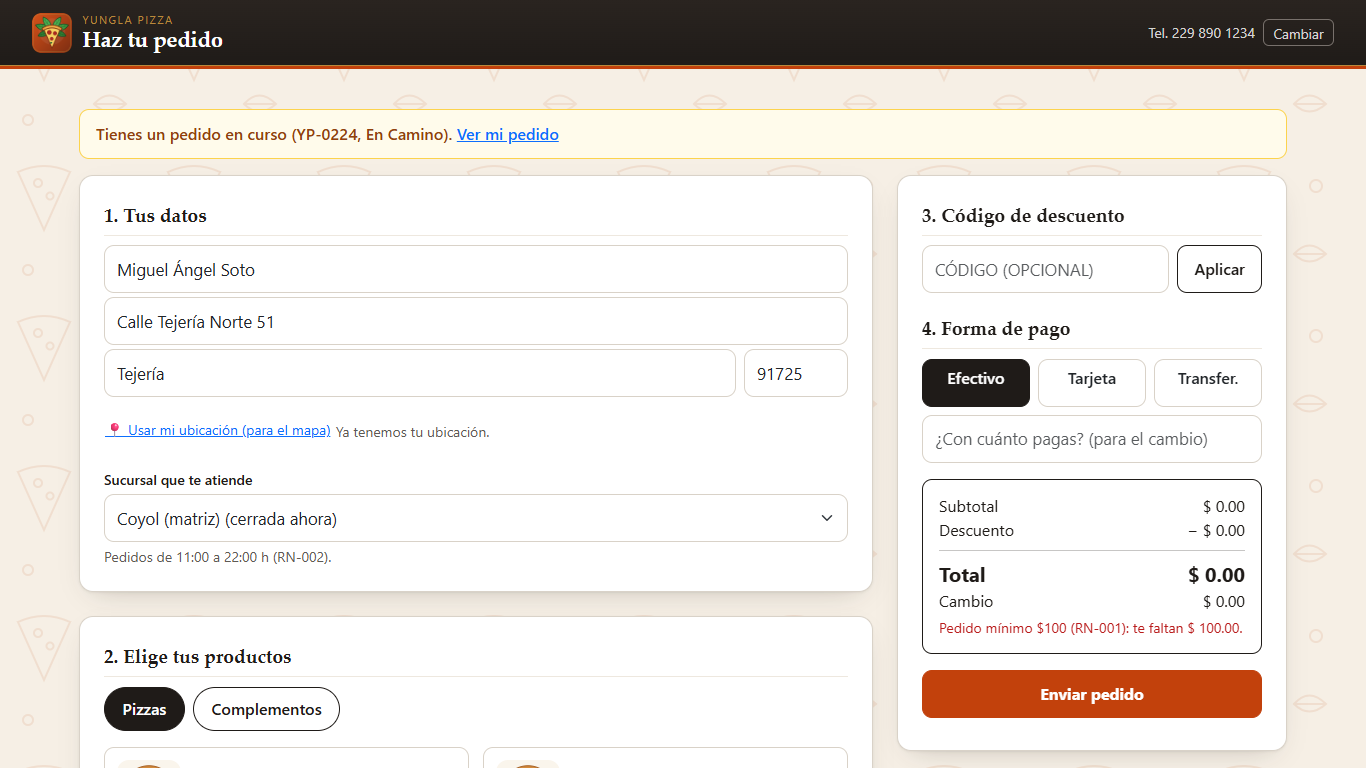
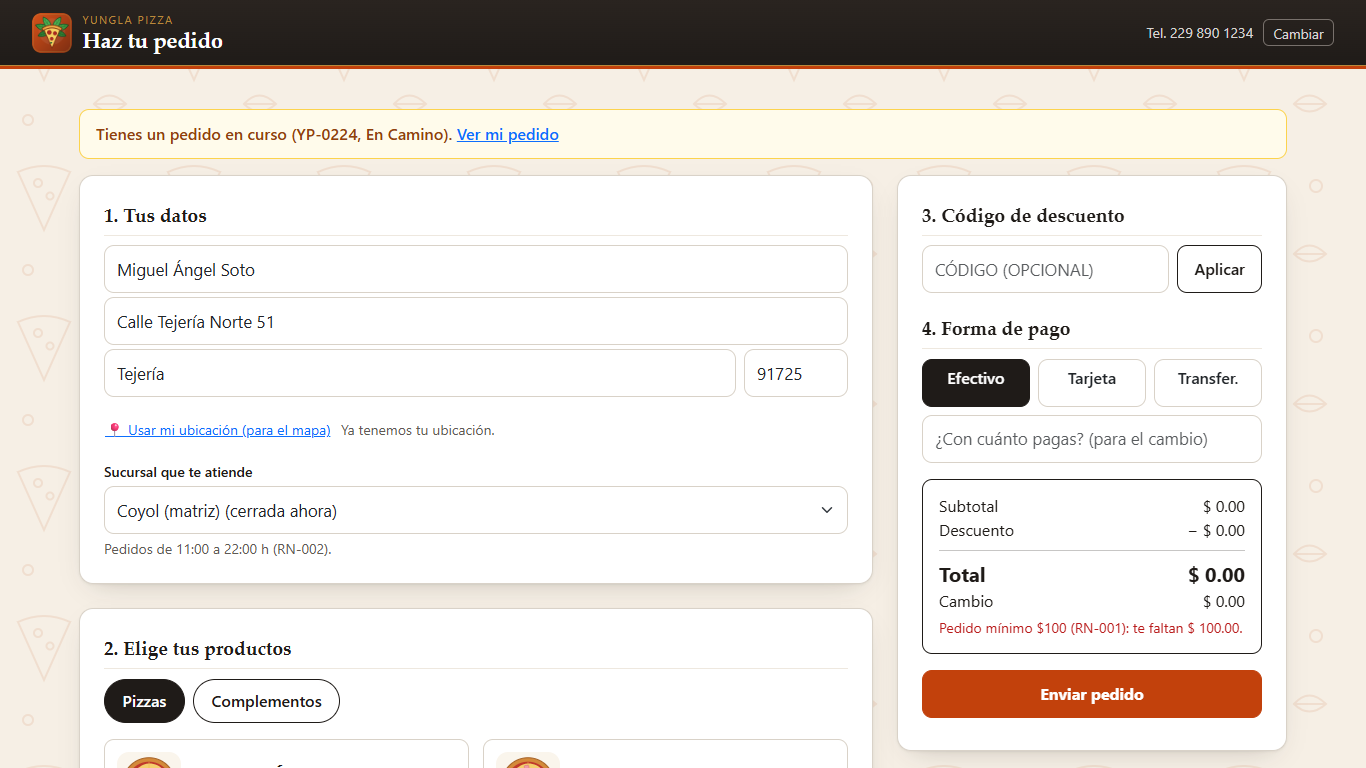
Ajustes para que todo se acomode según el ancho de la pantalla
- Encabezado compacto en celular (el rol se oculta; campana y Salir en una fila)
- Filtros de reportes y auditoría que se encogen (ya no se salen de la pantalla)
- Botón y texto de estado en filas que se acomodan (ubicación, simular recorrido)
- Tamaños de pizza en una fila pareja; "agotado" en letra chica
- Menú del gerente en celular: la sección activa se centra sola
- Tableta: columna más ancha y productos en dos columnas
- PC de 1024 px: el pedido del cajero en una sola columna
- herramientas/revisar_responsivo.py: revisa 30 pantallas en 7 anchos
  (320 a 1366 px); queda en 0 problemas
- Capturas de evidencia actualizadas; caché del service worker gpizza-v5

Pruebas: 172 pasan.

diff --git a/gpizza/static/css/gpizza.css b/gpizza/static/css/gpizza.css
@@ -484,3 +484,99 @@ h2, h3, .gp-paso, .gp-portada-titulo { font-family: var(--gp-letra-titulos); }
     padding-bottom: 0.6rem; border-bottom: 2px solid var(--gp-dorado); display: inline-block;
   }
 }
+
+/* =====================================================================================================
+   Ajustes por tamaño de pantalla (revisado de 320 px a 1366 px)
+   - Celular chico (< 576 px): encabezado compacto y filas que se acomodan en vez de encimarse.
+   - Tableta (768 a 991 px): columna más ancha y productos en dos columnas.
+   - PC angosta (992 a 1199 px): el pedido del cajero vuelve a una columna para no apretar las tarjetas.
+   ===================================================================================================== */
+
+/* Encabezado: el bloque de la marca se puede encoger; la parte derecha nunca se parte en renglones sueltos. */
+.gp-encabezado-marca > div { min-width: 0; }
+.gp-encabezado-empresa { white-space: nowrap; line-height: 1.25; }
+.gp-encabezado h1 { line-height: 1.2; overflow-wrap: anywhere; }
+.gp-encabezado-derecha {
+  display: flex; align-items: center; justify-content: flex-end; flex-wrap: wrap; gap: 0.35rem 0.6rem;
+  flex-shrink: 0; max-width: 55%;
+}
+.gp-encabezado-derecha form { margin: 0 !important; }
+.gp-encabezado-derecha .gp-boton-salir { margin: 0 !important; }
+.gp-campana { margin-right: 0.2rem; }
+
+/* Botón con un texto de estado al lado: si no caben, el texto baja completo a la siguiente línea. */
+.gp-accion-con-estado { display: flex; flex-wrap: wrap; align-items: baseline; gap: 0.15rem 0.6rem; }
+
+/* Tamaños de pizza: siempre en una sola fila pareja (4 botones del mismo ancho). */
+.gp-tamanos { display: grid; grid-template-columns: repeat(auto-fit, minmax(54px, 1fr)); gap: 0.3rem; }
+.gp-tamanos[hidden] { display: none; }
+.gp-tamano { padding: 0.3rem 0.15rem; line-height: 1.15; white-space: nowrap; }
+.gp-tamano small { font-size: 0.68rem; }
+
+/* Pie de la tarjeta de producto: el precio se encoge antes que los botones de cantidad. */
+.gp-producto-pie > div:first-child { min-width: 0; }
+.gp-producto-info { min-width: 0; overflow-wrap: anywhere; }
+
+/* Filtros de reportes y auditoría: columnas que se encogen con la pantalla (antes se salían a la derecha). */
+.gp-filtros { grid-template-columns: repeat(2, minmax(0, 1fr)); }
+.gp-filtros > * { min-width: 0; }
+.gp-filtros .form-control, .gp-filtros .form-select { width: 100%; min-width: 0; }
+
+/* Tarjetas de indicadores y textos largos (montos, nombres): que bajen de línea en vez de salirse. */
+.gp-indicadores > * { min-width: 0; overflow-wrap: anywhere; }
+
+@media (max-width: 575.98px) {
+  .gp-encabezado { padding: 0.55rem 0.85rem; gap: 0.6rem; }
+  .gp-encabezado-logo { width: 30px; height: 30px; }
+  .gp-encabezado h1 { font-size: 1.05rem; }
+  .gp-encabezado-empresa { font-size: 0.62rem; }
+  .gp-encabezado small { font-size: 0.8rem; }
+  .gp-rol-encabezado { display: none; }          /* el rol ya se ve en el menú y en cada pantalla */
+  .gp-contenido { padding-left: 0.85rem; padding-right: 0.85rem; }
+
+  /* Barra inferior del personal: textos que caben en 320 px. */
+  .gp-navegacion > a { font-size: 0.8rem; padding: 0 0.15rem; text-align: center; line-height: 1.15; }
+
+  /* Panel del gerente en el celular: usuario y "Cerrar sesión" en una sola fila; el menú avisa que se desliza. */
+  .gp-menu-lateral { padding: 0.75rem 0.85rem; }
+  .gp-menu-titulo { margin-bottom: 0.5rem; }
+  .gp-menu-lateral nav { mask-image: linear-gradient(90deg, #000 85%, transparent); -webkit-mask-image: linear-gradient(90deg, #000 85%, transparent); scrollbar-width: none; }
+  .gp-menu-usuario { display: flex; align-items: center; justify-content: space-between; gap: 0.5rem; flex-wrap: wrap; margin-top: 0.5rem; }
+  .gp-menu-usuario form { margin: 0 !important; }
+  .gp-panel-principal { padding: 1rem 0.85rem 2rem; }
+  .gp-pestanas-estado { scrollbar-width: none; }
+
+  /* Botones de opción (pago, tiempo): un poco más compactos para que quepan tres. */
+  .gp-segmentado { gap: 0.35rem; }
+  .gp-segmentado .btn { padding-left: 0.25rem; padding-right: 0.25rem; font-size: 0.95rem; }
+}
+
+@media (max-width: 359.98px) {
+  .gp-filtros { grid-template-columns: minmax(0, 1fr); }
+  .gp-indicadores { grid-template-columns: minmax(0, 1fr); }
+}
+
+/* Tableta: aprovecha el ancho sin pasar todavía a la distribución de PC. */
+@media (min-width: 768px) and (max-width: 991.98px) {
+  .gp-contenido { max-width: 720px; }
+  .gp-contenido-portada, .gp-contenido-medio { max-width: 600px; }
+  .gp-lista-productos:not([hidden]) { display: grid; grid-template-columns: repeat(2, minmax(0, 1fr)); gap: 0.75rem; margin-bottom: 0.75rem; }
+  .gp-lista-productos .gp-producto { margin-bottom: 0; align-content: start; }
+  .gp-panel-principal { padding: 1.5rem 2rem 2rem; }
+}
+
+@media (min-width: 992px) {
+  /* Los productos se acomodan según el espacio de la columna: dos si caben, una si no. */
+  .gp-lista-productos:not([hidden]) { grid-template-columns: repeat(auto-fill, minmax(250px, 1fr)); }
+}
+
+/* PC angosta con menú lateral (cajero): el pedido en una sola columna para no apretar las tarjetas. */
+@media (min-width: 992px) and (max-width: 1199.98px) {
+  .gp-con-navegacion .gp-pedido-rejilla { display: block; }
+  .gp-con-navegacion .gp-pedido-pegajoso { position: static; }
+  body.gp-con-navegacion { grid-template-columns: 210px minmax(0, 1fr); }
+  .gp-con-navegacion .gp-contenido { padding: 1.5rem 1.5rem; }
+  .gp-pedido-rejilla { grid-template-columns: minmax(0, 1fr) 340px; }
+  .gp-menu-lateral { width: 220px; }
+  .gp-panel-principal { padding: 2rem 2rem; }
+}

diff --git a/gpizza/templates/repartidor/inicio.html b/gpizza/templates/repartidor/inicio.html
@@ -56,8 +56,10 @@
         {% endif %}
       </div>
       <p class="small mt-2 mb-1 {{ 'gp-texto-alerta fw-semibold' if minutos > 90 }}">Tiempo en camino: {{ minutos }} min · alerta a los 90 (RN-014)</p>
-      <button type="button" class="btn btn-link btn-sm p-0" data-simular>Simular recorrido (demo sin GPS)</button>
-      <span class="small gp-texto-suave ms-1" data-estado-gps></span>
+      <div class="gp-accion-con-estado">
+        <button type="button" class="btn btn-link btn-sm p-0" data-simular>Simular recorrido (demo sin GPS)</button>
+        <span class="small gp-texto-suave" data-estado-gps></span>
+      </div>
 
       {# ---------- RN-013: entrega en dos pasos ---------- #}
       <div class="gp-confirmar-entrega mt-3">
@@ -71,7 +73,7 @@
             <button type="button" class="btn btn-link btn-sm p-0" data-borrar-firma>Borrar firma</button>
             <div class="text-center small gp-texto-suave my-1">— o —</div>
             <input class="form-control mb-2" name="codigo" inputmode="numeric" maxlength="4" pattern="[0-9]{4}"
-                   placeholder="Código de confirmación del cliente" aria-label="Código de confirmación del cliente">
+                   placeholder="Código del cliente (4 dígitos)" aria-label="Código de confirmación del cliente">
             <button class="btn btn-gp-oscuro w-100">Registrar confirmación del cliente</button>
           </form>
           <button class="btn btn-gp-principal w-100 mt-2" disabled>Marcar como entregado</button>

diff --git a/gpizza/templates/cliente/pedido.html b/gpizza/templates/cliente/pedido.html
@@ -46,8 +46,10 @@
   {# Opcional: con la ubicación del navegador, el domicilio aparece en el mapa del repartidor y en el tuyo. #}
   <input type="hidden" name="latitud" value="{{ valores.get('latitud', '') }}">
   <input type="hidden" name="longitud" value="{{ valores.get('longitud', '') }}">
-  <button type="button" class="btn btn-link btn-sm p-0 mb-2" id="usar-ubicacion">📍 Usar mi ubicación (para el mapa)</button>
-  <span class="small gp-texto-suave" id="estado-ubicacion">{% if cliente and cliente.latitud %}Ya tenemos tu ubicación.{% endif %}</span>
+  <div class="gp-accion-con-estado mb-2">
+    <button type="button" class="btn btn-link btn-sm p-0" id="usar-ubicacion">📍 Usar mi ubicación (para el mapa)</button>
+    <span class="small gp-texto-suave" id="estado-ubicacion">{% if cliente and cliente.latitud %}Ya tenemos tu ubicación.{% endif %}</span>
+  </div>
   <label for="id_sucursal" class="form-label d-block small fw-semibold mt-2 mb-1">Sucursal que te atiende</label>
   <select id="id_sucursal" name="id_sucursal" class="form-select mb-1">
     {% for s in sucursales %}

diff --git a/gpizza/static/js/gpizza.js b/gpizza/static/js/gpizza.js
@@ -8,6 +8,14 @@ if ('serviceWorker' in navigator) {
   });
 }
 
+// Menús que se deslizan a lo ancho en el celular: lleva la opción activa a la vista.
+document.addEventListener('DOMContentLoaded', () => {
+  document.querySelectorAll('.gp-menu-lateral nav a.activa, .gp-pestanas-estado .activa').forEach((activa) => {
+    const fila = activa.parentElement;
+    if (fila.scrollWidth > fila.clientWidth) fila.scrollLeft = activa.offsetLeft - (fila.clientWidth - activa.offsetWidth) / 2;
+  });
+});
+
 // Protección CSRF (RNF-003): HTMX envía el token en una cabecera en cada petición que modifica datos.
 document.addEventListener('htmx:configRequest', (evento) => {
   const token = document.querySelector('meta[name="csrf-token"]');

diff --git a/gpizza/templates/parciales/_menu.html b/gpizza/templates/parciales/_menu.html
@@ -29,7 +29,7 @@
         {% for o in t.opciones %}
           <button type="button" class="gp-tamano" data-id="{{ o.id_producto }}" data-precio="{{ o.precio }}" data-qr="{{ o.codigo or '' }}"
                   data-nombre="{{ t.nombre }}{{ ' ' ~ o.tamano if o.tamano }}"
-                  {% if not o.disponible %}disabled title="Agotado"{% endif %}>{{ o.tamano or 'Único' }}{% if not o.disponible %} (agotado){% endif %}</button>
+                  {% if not o.disponible %}disabled title="Agotado"{% endif %}>{{ o.tamano or 'Único' }}{% if not o.disponible %}<small class="d-block">agotado</small>{% endif %}</button>
         {% endfor %}
       </div>
       <div class="gp-producto-pie">

diff --git a/gpizza/templates/personal/base.html b/gpizza/templates/personal/base.html
@@ -4,8 +4,8 @@
 {% block clase_body %}gp-con-navegacion{% endblock %}
 {% block encabezado_derecha %}
   {% include 'parciales/_campana.html' %}
-  {{ usuario.rol }}
-  <form method="post" action="{{ url_for('auth.salir') }}" class="d-inline ms-2">
+  <span class="gp-rol-encabezado">{{ usuario.rol }}</span>
+  <form method="post" action="{{ url_for('auth.salir') }}" class="d-inline">
     <input type="hidden" name="csrf_token" value="{{ csrf_token() }}">
     <button class="gp-boton-salir" title="Cerrar sesión">Salir</button>
   </form>

diff --git a/gpizza/static/sw.js b/gpizza/static/sw.js
@@ -4,7 +4,7 @@
 // - Las páginas sin red muestran /offline. Nunca se guardan datos de pedidos ni respuestas de la API.
 // Al cambiar esta estrategia o la lista de archivos, sube el número de CACHE para borrar la anterior.
 
-const CACHE = 'gpizza-v4';
+const CACHE = 'gpizza-v5';
 const ARCHIVOS_FIJOS = [
   '/offline',
   '/static/css/gpizza.css',

diff --git a/herramientas/revisar_responsivo.py b/herramientas/revisar_responsivo.py
@@ -1,0 +1,135 @@
+"""Revisa todas las pantallas en varios anchos y reporta: elementos fuera de la pantalla, textos o botones
+encimados, textos cortados y contenido tapado por la barra inferior. Toma captura de las que tienen problemas.
+Uso (con la app corriendo sobre la base de pruebas gpizza_test):
+    python herramientas/revisar_responsivo.py http://127.0.0.1:5000 revision [320,360,390,412,768,1024,1366]
+Requiere playwright (pip install playwright) y Chrome instalado. Debe terminar en "0 pantallas con problemas"."""
+import json
+import sys
+from pathlib import Path
+
+from playwright.sync_api import sync_playwright
+
+BASE, SALIDA = sys.argv[1], Path(sys.argv[2])
+ANCHOS = [int(a) for a in (sys.argv[3] if len(sys.argv) > 3 else '320,360,390,412,768,1024,1366').split(',')]
+SALIDA.mkdir(parents=True, exist_ok=True)
+
+GRUPOS = {
+    None: ['/', '/login', '/no-existe'],
+    'cliente': ['/pedido', '/mi-pedido/YP-0224'],
+    'cajero1.coyol': ['/cajero/', '/cajero/pedidos', '/cajero/pedidos?estado=En%20Camino', '/cajero/nuevo',
+                      '/cajero/nuevo?telefono=2297654321', '/cajero/clientes', '/cajero/clientes/nuevo',
+                      '/seguimiento/?q=YP-0224', '/seguimiento/YP-0224', '/notificaciones/', '/cambiar-contrasena'],
+    'repartidor1.coyol': ['/repartidor/', '/repartidor/historial'],
+    'gerente.coyol': ['/gerente/', '/gerente/pedidos', '/gerente/catalogo', '/gerente/clientes', '/gerente/clientes/1',
+                      '/gerente/personal', '/gerente/descuentos', '/gerente/reportes', '/gerente/auditoria',
+                      '/gerente/catalogo/etiquetas', '/seguimiento/YP-0224'],
+}
+
+REVISAR = r"""() => {
+  const vw = document.documentElement.clientWidth, vh = innerHeight, res = [];
+  const desc = (el) => {
+    const c = (el.className && typeof el.className === 'string') ? '.' + el.className.trim().split(/\s+/).slice(0, 3).join('.') : '';
+    const t = (el.innerText || el.value || el.alt || '').trim().replace(/\s+/g, ' ').slice(0, 40);
+    return `${el.tagName.toLowerCase()}${el.id ? '#' + el.id : ''}${c} "${t}"`;
+  };
+  const visible = (el) => {
+    const s = getComputedStyle(el), r = el.getBoundingClientRect();
+    return r.width > 0 && r.height > 0 && s.visibility !== 'hidden' && s.display !== 'none' && s.opacity !== '0';
+  };
+  // Zonas que se desplazan a lo ancho a propósito, o dibujos internos de librerías.
+  const ignorar = (el) => el.closest('.visually-hidden, .leaflet-container, .gp-pestanas-estado, .gp-menu-lateral nav, .table-responsive, canvas, svg, option, datalist, script, style, head, [hidden], details:not([open]) > :not(summary)');
+  const todos = [...document.body.querySelectorAll('*')].filter((el) => !ignorar(el) && visible(el));
+
+  // 1. Fuera de la pantalla a lo ancho
+  for (const el of todos) {
+    const r = el.getBoundingClientRect();
+    if (r.right > vw + 1 || r.left < -1) res.push({tipo: 'fuera', el: desc(el), detalle: `${Math.round(r.left)}..${Math.round(r.right)} de ${vw}`});
+  }
+  // 2. Texto cortado: el contenido es más ancho que la caja y no se puede desplazar
+  for (const el of todos) {
+    const s = getComputedStyle(el);
+    if (['auto', 'scroll'].includes(s.overflowX) || el.tagName === 'SELECT' || el.tagName === 'INPUT' || el.tagName === 'TEXTAREA') continue;
+    if (el.scrollWidth > el.clientWidth + 2 && el.clientWidth > 0 && [...el.childNodes].some((n) => n.nodeType === 3 && n.textContent.trim()))
+      res.push({tipo: 'cortado', el: desc(el), detalle: `${el.scrollWidth} > ${el.clientWidth}`});
+  }
+  // 3. Encimados: hojas (texto propio, botones, campos, imágenes) cuyas cajas se cruzan
+  const hojas = todos.filter((el) => ['BUTTON', 'INPUT', 'SELECT', 'TEXTAREA', 'IMG', 'A', 'LABEL'].includes(el.tagName) ||
+      [...el.childNodes].some((n) => n.nodeType === 3 && n.textContent.trim()))
+    .filter((el) => !el.closest('.gp-insignia, .gp-navegacion') && !el.matches('.btn-check, .visually-hidden') && getComputedStyle(el).position !== 'fixed');
+  const cajas = hojas.map((el) => {
+    // Para texto se mide el texto real (no la caja del bloque, que puede ser más ancha que las letras).
+    let r = el.getBoundingClientRect();
+    if (!['BUTTON', 'INPUT', 'SELECT', 'TEXTAREA', 'IMG'].includes(el.tagName)) {
+      const rango = document.createRange(); rango.selectNodeContents(el); const rr = rango.getBoundingClientRect();
+      if (rr.width && rr.height) r = rr;
+    }
+    return [el, r];
+  });
+  for (let i = 0; i < cajas.length; i++) for (let j = i + 1; j < cajas.length; j++) {
+    const [a, ra] = cajas[i], [b, rb] = cajas[j];
+    if (a.contains(b) || b.contains(a)) continue;
+    const w = Math.min(ra.right, rb.right) - Math.max(ra.left, rb.left), h = Math.min(ra.bottom, rb.bottom) - Math.max(ra.top, rb.top);
+    if (w > 3 && h > 3) res.push({tipo: 'encimado', el: desc(a), detalle: 'con ' + desc(b) + ` (${Math.round(w)}x${Math.round(h)})`});
+  }
+  // 4. Barra inferior fija: al final de la página, ¿tapa el último contenido?
+  const barra = document.querySelector('.gp-navegacion');
+  if (barra && getComputedStyle(barra).position === 'fixed') {
+    window.scrollTo({top: document.documentElement.scrollHeight, behavior: 'instant'});
+    const tope = barra.getBoundingClientRect().top;
+    const ultimo = [...document.querySelectorAll('.gp-contenido *')].filter(visible).pop();
+    if (ultimo && ultimo.getBoundingClientRect().bottom > tope + 1) res.push({tipo: 'tapado', el: desc(ultimo), detalle: 'por la barra inferior'});
+    window.scrollTo({top: 0, behavior: 'instant'});
+  }
+  if (document.documentElement.scrollWidth > vw + 1) res.push({tipo: 'scroll-horizontal', el: 'página', detalle: `${document.documentElement.scrollWidth} > ${vw}`});
+  return res;
+}"""
+
+
+def entrar(pagina, rol):
+    if rol == 'cliente':
+        pagina.goto(BASE + '/')
+        pagina.fill('#telefono', '2298901234')
+        pagina.click('button[type=submit]')
+    elif rol:
+        pagina.goto(BASE + '/login')
+        pagina.fill('#usuario', rol)
+        pagina.fill('#contrasena', 'Pizza2026')
+        pagina.click('button:has-text("Iniciar sesión")')
+    pagina.wait_for_load_state('load')
+
+
+reporte = {}
+with sync_playwright() as p:
+    nav = p.chromium.launch(channel='chrome')
+    for ancho in ANCHOS:
+        movil = ancho < 768
+        for rol, rutas in GRUPOS.items():
+            ctx = nav.new_context(viewport={'width': ancho, 'height': 800 if movil else 900}, is_mobile=movil, has_touch=movil,
+                                  device_scale_factor=1)
+            # Sin mosaicos del mapa: no cambian el acomodo y así la revisión no depende de internet.
+            ctx.route('**/tile.openstreetmap.org/**', lambda r: r.abort())
+            pg = ctx.new_page()
+            entrar(pg, rol)
+            for ruta in rutas:
+                pg.goto(BASE + ruta, wait_until='load')
+                pg.wait_for_timeout(500)
+                problemas = pg.evaluate(REVISAR)
+                clave = f'{ancho} {rol or "publico"} {ruta}'
+                if problemas:
+                    reporte[clave] = problemas
+                    nombre = f'{ancho}_{(rol or "publico").split(".")[0]}_{ruta.strip("/").replace("/", "_").replace("?", "_") or "inicio"}'[:90]
+                    pg.screenshot(path=str(SALIDA / f'{nombre}.png'), full_page=True)
+            ctx.close()
+    nav.close()
+
+(SALIDA / 'reporte.json').write_text(json.dumps(reporte, ensure_ascii=False, indent=1), encoding='utf-8')
+total = sum(len(v) for v in reporte.values())
+print(f'{len(reporte)} pantallas con problemas, {total} problemas')
+for clave, problemas in reporte.items():
+    print('\n#', clave)
+    vistos = set()
+    for pr in problemas:
+        linea = f"  {pr['tipo']:9} {pr['el']} {pr['detalle']}"
+        if linea not in vistos:
+            vistos.add(linea)
+            print(linea[:230])

diff --git a/docs/evidencias/README.md b/docs/evidencias/README.md
@@ -10,31 +10,31 @@ Firefox no está instalado en la computadora de desarrollo; se revisa a mano (ve
 
 | Pantalla | Navegador | Ancho | OK | Desborde | Botones < 44 px | Carga | Errores JS | Captura |
 |---|---|---|---|---|---|---|---|---|
-| Cliente · inicio con teléfono (boceto 1) | Chrome | 375 px | ✔ | 0 px | 0 | 0.74 s | — | [chrome_375_01_cliente_inicio.png](chrome_375_01_cliente_inicio.png) |
-| Cliente · haz tu pedido (boceto 2) | Chrome | 375 px | ✔ | 0 px | 0 | 0.77 s | — | [chrome_375_02_cliente_pedido.png](chrome_375_02_cliente_pedido.png) |
-| Cliente · pedido en camino con mapa (boceto 5) | Chrome | 375 px | ✔ | 0 px | 0 | 1.11 s | — | [chrome_375_03_cliente_en_camino.png](chrome_375_03_cliente_en_camino.png) |
-| Personal · inicio de sesión (boceto 6) | Chrome | 375 px | ✔ | 0 px | 0 | 0.70 s | — | [chrome_375_04_login.png](chrome_375_04_login.png) |
-| Cajero · por confirmar (boceto 7) | Chrome | 375 px | ✔ | 0 px | 0 | 0.69 s | — | [chrome_375_05_cajero_por_confirmar.png](chrome_375_05_cajero_por_confirmar.png) |
-| Cajero · pedidos por estado (boceto 8) | Chrome | 375 px | ✔ | 0 px | 0 | 0.93 s | — | [chrome_375_06_cajero_pedidos.png](chrome_375_06_cajero_pedidos.png) |
-| Repartidor · mis entregas (boceto 9) | Chrome | 375 px | ✔ | 0 px | 0 | 0.69 s | — | [chrome_375_07_repartidor.png](chrome_375_07_repartidor.png) |
-| Gerente · reportes (boceto 10) | Chrome | 375 px | ✔ | 0 px | 0 | 0.78 s | — | [chrome_375_08_gerente_reportes.png](chrome_375_08_gerente_reportes.png) |
-| Gerente · catálogo y precios | Chrome | 375 px | ✔ | 0 px | 0 | 0.77 s | — | [chrome_375_09_gerente_catalogo.png](chrome_375_09_gerente_catalogo.png) |
-| Gerente · auditoría | Chrome | 375 px | ✔ | 0 px | 0 | 0.72 s | — | [chrome_375_10_gerente_auditoria.png](chrome_375_10_gerente_auditoria.png) |
-| Cliente · inicio con teléfono (boceto 1) | Chrome | 1366 px | ✔ | 0 px | 0 | 0.74 s | — | [chrome_1366_01_cliente_inicio.png](chrome_1366_01_cliente_inicio.png) |
-| Cliente · haz tu pedido (boceto 2) | Chrome | 1366 px | ✔ | 0 px | 0 | 0.73 s | — | [chrome_1366_02_cliente_pedido.png](chrome_1366_02_cliente_pedido.png) |
-| Cliente · pedido en camino con mapa (boceto 5) | Chrome | 1366 px | ✔ | 0 px | 0 | 1.07 s | — | [chrome_1366_03_cliente_en_camino.png](chrome_1366_03_cliente_en_camino.png) |
-| Personal · inicio de sesión (boceto 6) | Chrome | 1366 px | ✔ | 0 px | 0 | 0.70 s | — | [chrome_1366_04_login.png](chrome_1366_04_login.png) |
-| Cajero · por confirmar (boceto 7) | Chrome | 1366 px | ✔ | 0 px | 0 | 0.69 s | — | [chrome_1366_05_cajero_por_confirmar.png](chrome_1366_05_cajero_por_confirmar.png) |
-| Cajero · pedidos por estado (boceto 8) | Chrome | 1366 px | ✔ | 0 px | 0 | 0.68 s | — | [chrome_1366_06_cajero_pedidos.png](chrome_1366_06_cajero_pedidos.png) |
-| Repartidor · mis entregas (boceto 9) | Chrome | 1366 px | ✔ | 0 px | 0 | 0.76 s | — | [chrome_1366_07_repartidor.png](chrome_1366_07_repartidor.png) |
-| Gerente · reportes (boceto 10) | Chrome | 1366 px | ✔ | 0 px | 0 | 0.81 s | — | [chrome_1366_08_gerente_reportes.png](chrome_1366_08_gerente_reportes.png) |
-| Gerente · catálogo y precios | Chrome | 1366 px | ✔ | 0 px | 0 | 0.84 s | — | [chrome_1366_09_gerente_catalogo.png](chrome_1366_09_gerente_catalogo.png) |
-| Gerente · auditoría | Chrome | 1366 px | ✔ | 0 px | 0 | 0.70 s | — | [chrome_1366_10_gerente_auditoria.png](chrome_1366_10_gerente_auditoria.png) |
-| Cliente · haz tu pedido (boceto 2) | Edge | 375 px | ✔ | 0 px | 0 | 1.13 s | — | [edge_375_02_cliente_pedido.png](edge_375_02_cliente_pedido.png) |
-| Cajero · por confirmar (boceto 7) | Edge | 375 px | ✔ | 0 px | 0 | 0.69 s | — | [edge_375_05_cajero_por_confirmar.png](edge_375_05_cajero_por_confirmar.png) |
-| Repartidor · mis entregas (boceto 9) | Edge | 375 px | ✔ | 0 px | 0 | 0.73 s | — | [edge_375_07_repartidor.png](edge_375_07_repartidor.png) |
-| Gerente · reportes (boceto 10) | Edge | 375 px | ✔ | 0 px | 0 | 0.79 s | — | [edge_375_08_gerente_reportes.png](edge_375_08_gerente_reportes.png) |
-| Cliente · haz tu pedido (boceto 2) | Edge | 1366 px | ✔ | 0 px | 0 | 0.81 s | — | [edge_1366_02_cliente_pedido.png](edge_1366_02_cliente_pedido.png) |
-| Cajero · por confirmar (boceto 7) | Edge | 1366 px | ✔ | 0 px | 0 | 0.70 s | — | [edge_1366_05_cajero_por_confirmar.png](edge_1366_05_cajero_por_confirmar.png) |
-| Repartidor · mis entregas (boceto 9) | Edge | 1366 px | ✔ | 0 px | 0 | 0.76 s | — | [edge_1366_07_repartidor.png](edge_1366_07_repartidor.png) |
-| Gerente · reportes (boceto 10) | Edge | 1366 px | ✔ | 0 px | 0 | 0.72 s | — | [edge_1366_08_gerente_reportes.png](edge_1366_08_gerente_reportes.png) |
+| Cliente · inicio con teléfono (boceto 1) | Chrome | 375 px | ✔ | 0 px | 0 | 0.70 s | — | [chrome_375_01_cliente_inicio.png](chrome_375_01_cliente_inicio.png) |
+| Cliente · haz tu pedido (boceto 2) | Chrome | 375 px | ✔ | 0 px | 0 | 0.73 s | — | [chrome_375_02_cliente_pedido.png](chrome_375_02_cliente_pedido.png) |
+| Cliente · pedido en camino con mapa (boceto 5) | Chrome | 375 px | ✔ | 0 px | 0 | 1.02 s | — | [chrome_375_03_cliente_en_camino.png](chrome_375_03_cliente_en_camino.png) |
+| Personal · inicio de sesión (boceto 6) | Chrome | 375 px | ✔ | 0 px | 0 | 0.75 s | — | [chrome_375_04_login.png](chrome_375_04_login.png) |
+| Cajero · por confirmar (boceto 7) | Chrome | 375 px | ✔ | 0 px | 0 | 0.64 s | — | [chrome_375_05_cajero_por_confirmar.png](chrome_375_05_cajero_por_confirmar.png) |
+| Cajero · pedidos por estado (boceto 8) | Chrome | 375 px | ✔ | 0 px | 0 | 0.65 s | — | [chrome_375_06_cajero_pedidos.png](chrome_375_06_cajero_pedidos.png) |
+| Repartidor · mis entregas (boceto 9) | Chrome | 375 px | ✔ | 0 px | 0 | 0.73 s | — | [chrome_375_07_repartidor.png](chrome_375_07_repartidor.png) |
+| Gerente · reportes (boceto 10) | Chrome | 375 px | ✔ | 0 px | 0 | 1.31 s | — | [chrome_375_08_gerente_reportes.png](chrome_375_08_gerente_reportes.png) |
+| Gerente · catálogo y precios | Chrome | 375 px | ✔ | 0 px | 0 | 1.02 s | — | [chrome_375_09_gerente_catalogo.png](chrome_375_09_gerente_catalogo.png) |
+| Gerente · auditoría | Chrome | 375 px | ✔ | 0 px | 0 | 0.69 s | — | [chrome_375_10_gerente_auditoria.png](chrome_375_10_gerente_auditoria.png) |
+| Cliente · inicio con teléfono (boceto 1) | Chrome | 1366 px | ✔ | 0 px | 0 | 0.94 s | — | [chrome_1366_01_cliente_inicio.png](chrome_1366_01_cliente_inicio.png) |
+| Cliente · haz tu pedido (boceto 2) | Chrome | 1366 px | ✔ | 0 px | 0 | 0.83 s | — | [chrome_1366_02_cliente_pedido.png](chrome_1366_02_cliente_pedido.png) |
+| Cliente · pedido en camino con mapa (boceto 5) | Chrome | 1366 px | ✔ | 0 px | 0 | 1.64 s | — | [chrome_1366_03_cliente_en_camino.png](chrome_1366_03_cliente_en_camino.png) |
+| Personal · inicio de sesión (boceto 6) | Chrome | 1366 px | ✔ | 0 px | 0 | 0.80 s | — | [chrome_1366_04_login.png](chrome_1366_04_login.png) |
+| Cajero · por confirmar (boceto 7) | Chrome | 1366 px | ✔ | 0 px | 0 | 1.11 s | — | [chrome_1366_05_cajero_por_confirmar.png](chrome_1366_05_cajero_por_confirmar.png) |
+| Cajero · pedidos por estado (boceto 8) | Chrome | 1366 px | ✔ | 0 px | 0 | 2.15 s | — | [chrome_1366_06_cajero_pedidos.png](chrome_1366_06_cajero_pedidos.png) |
+| Repartidor · mis entregas (boceto 9) | Chrome | 1366 px | ✔ | 0 px | 0 | 2.05 s | — | [chrome_1366_07_repartidor.png](chrome_1366_07_repartidor.png) |
+| Gerente · reportes (boceto 10) | Chrome | 1366 px | ✔ | 0 px | 0 | 1.15 s | — | [chrome_1366_08_gerente_reportes.png](chrome_1366_08_gerente_reportes.png) |
+| Gerente · catálogo y precios | Chrome | 1366 px | ✔ | 0 px | 0 | 1.19 s | — | [chrome_1366_09_gerente_catalogo.png](chrome_1366_09_gerente_catalogo.png) |
+| Gerente · auditoría | Chrome | 1366 px | ✔ | 0 px | 0 | 0.73 s | — | [chrome_1366_10_gerente_auditoria.png](chrome_1366_10_gerente_auditoria.png) |
+| Cliente · haz tu pedido (boceto 2) | Edge | 375 px | ✔ | 0 px | 0 | 1.08 s | — | [edge_375_02_cliente_pedido.png](edge_375_02_cliente_pedido.png) |
+| Cajero · por confirmar (boceto 7) | Edge | 375 px | ✔ | 0 px | 0 | 0.73 s | — | [edge_375_05_cajero_por_confirmar.png](edge_375_05_cajero_por_confirmar.png) |
+| Repartidor · mis entregas (boceto 9) | Edge | 375 px | ✔ | 0 px | 0 | 0.71 s | — | [edge_375_07_repartidor.png](edge_375_07_repartidor.png) |
+| Gerente · reportes (boceto 10) | Edge | 375 px | ✔ | 0 px | 0 | 0.77 s | — | [edge_375_08_gerente_reportes.png](edge_375_08_gerente_reportes.png) |
+| Cliente · haz tu pedido (boceto 2) | Edge | 1366 px | ✔ | 0 px | 0 | 0.87 s | — | [edge_1366_02_cliente_pedido.png](edge_1366_02_cliente_pedido.png) |
+| Cajero · por confirmar (boceto 7) | Edge | 1366 px | ✔ | 0 px | 0 | 0.66 s | — | [edge_1366_05_cajero_por_confirmar.png](edge_1366_05_cajero_por_confirmar.png) |
+| Repartidor · mis entregas (boceto 9) | Edge | 1366 px | ✔ | 0 px | 0 | 0.72 s | — | [edge_1366_07_repartidor.png](edge_1366_07_repartidor.png) |
+| Gerente · reportes (boceto 10) | Edge | 1366 px | ✔ | 0 px | 0 | 0.76 s | — | [edge_1366_08_gerente_reportes.png](edge_1366_08_gerente_reportes.png) |

diff --git a/README.md b/README.md
@@ -265,7 +265,8 @@ gpizza/            código de la aplicación
   static/          CSS, JS, iconos y librerías (Bootstrap, HTMX) incluidas para funcionar sin internet
     img/logo.svg   ícono de la app (los PNG de la PWA salen de él)
     img/productos/ un dibujo SVG por producto; el nombre del archivo sale del nombre del producto
-herramientas/      generadores de los íconos: iconos_productos.py e icono_app.py (con "png" crea los PNG)
+herramientas/      generadores de los íconos (iconos_productos.py, icono_app.py) y revisar_responsivo.py,
+                   que busca elementos encimados o fuera de la pantalla de 320 px a 1366 px
 tests/             pruebas automáticas (pytest)
 docs/              documentación del proyecto, diseño y matriz de trazabilidad
 run.py             arranque con waitress
